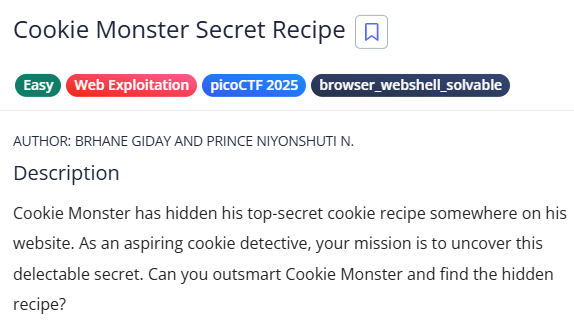
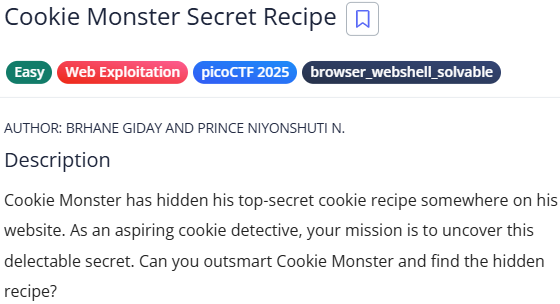
Cookie monster secret recipe 4 (#7)
* Update share.yml

Fixed share file with bad syntax

* Update 2025-10-06-cookie-monster-secret-recipe.md

Fixed final errors on cookie monster secret recipe writeup

* Delete assets/posts/2025-10-06-cookie-monster-secret-recipe/cookie_monster_secret_recipe.png

Deleted slightly off screen challenge banner

* Add files via upload

Uploaded correct challenge banner

diff --git a/_posts/2025-10-06-cookie-monster-secret-recipe.md b/_posts/2025-10-06-cookie-monster-secret-recipe.md
@@ -17,7 +17,7 @@ tags:
 title: Cookie Monster Secret Recipe
 ---
 
-Cookie Monster Secret Recipie is an Easy Web Exploitation challenge from picoCTF 2025.
+Cookie Monster Secret Recipe is an Easy Web Exploitation challenge from picoCTF 2025. It has almost 30,000 user solves as of writing this.
 
 # Website
 
